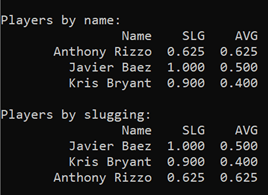
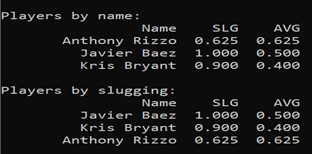
updated image

diff --git a/index.html b/index.html
@@ -75,7 +75,7 @@
 				</article>
 
 				<article class="col-6 col-12-xsmall work-item">
-					<a href="images/fulls/02.jpg" class="image fit thumb"><img src="images/thumbs/02.jpg" alt="" /></a>
+					<a href="images\bpprogram\bpimage2.png" class="image fit thumb"><img src="images\bpprogram\bpimage2.png" alt="Image of the sorted output" /></a>
 					<h3><a href="BaseballPlayer.html">Baseball Player Program</a></h3>
 					<h5>C++, Visual Studios 2019</h5>
 					<p>This program keeps track of the information of up to nine baseball players. When the program begins, it asks the user for the number of baseball players that will be entered and validate that number appropriately. It asks for the information about each player, by number, and then by name. After all the players have been added, the program prints the players two ways. First, sorted alphabetically by name. Then, prints the players sorted by slugging percentage from highest to lowest.</p>
